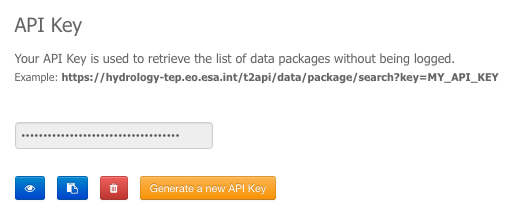
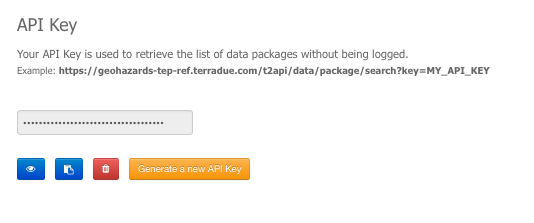
typos

diff --git a/source/community-guide/platform/geobrowser.rst b/source/community-guide/platform/geobrowser.rst
@@ -22,20 +22,30 @@ The map is just a simple map, on which you can zoom in, zoom out and navigate.
 
 Some buttons maybe used to interact with the map:
 
--  |geobrowser_button_search.png| search area
+-  |geobrowser_button_search.png| search text
+-  |geobrowser_button_search_area.png| search area
 -  |geobrowser_button_plus.png| Zoom in
 -  |geobrowser_button_minus.png| Zoom out
 -  |geobrowser_button_query.png| Open query search tab
 -  |geobrowser_button_polygon.png| Edit the search bbox by drawing a polygon on the map
 -  |geobrowser_button_recbox.png| Edit the search bbox by drawing a rectangle on the map
--  |geobrowser_button_dynamicsearch.png| Enable/Disable dynamic search (the search bbox is the current view on the map)
+-  |geobrowser_button_placemark.png| Edit the search bbox by selecting a point as AOI
+-  |geobrowser_button_wkt.png| Allow to enter a WKT or upload a shapefile, a kml or a geojson to be displayed on the map as bounding box
+-  |geobrowser_button_meter.png| Measure an area
 -  |geobrowser_button_fullscreen.png| Put the map in full screen
 -  |geobrowser_button_layers.png| Change the background of the map | Select layers to be displayed.
 
-It is also possible to directly select on the map the temporal parameter of the search by moving the temporal bar.
+Search area
+***********
+From the geobrowser, a search area can be accessed by clicking on the |geobrowser_button_search_area.png| button. This expands a view containing all search parameters associated to the current catalogue on which the search will be performed.
+Some parameters are just free text, others can be chosen from a list, and some parameters can be filled from the geobrowser. This is the case of:
+
+- the temporal parameter which can be filled by moving the temporal bar present on the geobrowser.
 
 .. figure:: ../../includes/geobrowser_timebar.png
 	:figclass: img-border img-max-width
+
+- the geographical area which can be filled either from the bbox drawn on the map using |geobrowser_button_polygon.png|, |geobrowser_button_recbox.png|, |geobrowser_button_placemark.png| or by uploading a shapefile, a kml or geojson file, using the import button |geobrowser_button_wkt.png|.
 
 .. tip:: in the *Search Term* field supported wildcards are '*', which matches any character sequence (including the empty one), and '?', which matches any single character.
 
@@ -64,6 +74,30 @@ Density map layer
 
 Currently disactivated.
 
+Area of interest
+*****************
+
+.. figure:: ../../includes/aoi.png
+	:align: center
+	:figclass: img-container-border
+	:scale: 80%
+
+
+Area of interest may be defined by the user using the tools to draw a polygon or a rectangle on the map (see `Map`_). Once set, the search will be automatically updated with data corresponding to this AOI.
+
+Area of interest external definition
+````````````````````````````````````
+
+Complex Area of interest can be defined by uploading or referencing a vector based file:
+
+- shapefile (limited to 1MB)
+- kml (limited to 1MB)
+
+Area of Interest according to processing service
+````````````````````````````````````````````````
+
+Area of Interest may be directly used to fill bounding box parameters exposed by Processing services.
+For that, you can use the |get_param_from_map_button.png| button, displayed along the parameter input field. Clicking on it will allow directly to fill the input with the value of the current search bounding box.
 
 Contexts
 ~~~~~~~~
@@ -101,6 +135,10 @@ Cloud Processing
 Processing services tab can be expanded by clicking on *Processing Services* on the right of the map.
 It is composed of two sub tabs.
 
+.. figure:: ../../includes/geobrowser_jobs.png
+	:figclass: img-border
+
+
 Processing services tab
 ~~~~~~~~~~~~~~~~~~~~~~~
 
@@ -119,12 +157,16 @@ Details on jobs can be accessed by clicking on the title of the job.
 .. |geobrowser_button_query.png| image:: ../../includes/geobrowser_button_query.png
 .. |geobrowser_button_plus.png| image:: ../../includes/geobrowser_button_plus.png
 .. |geobrowser_button_minus.png| image:: ../../includes/geobrowser_button_minus.png
+.. |geobrowser_button_search_area.png| image:: ../../includes/geobrowser_button_search_area.png
 .. |geobrowser_button_search.png| image:: ../../includes/geobrowser_button_search.png
 .. |geobrowser_button_polygon.png| image:: ../../includes/geobrowser_button_polygon.png
 .. |geobrowser_button_recbox.png| image:: ../../includes/geobrowser_button_recbox.png
-.. |geobrowser_button_dynamicsearch.png| image:: ../../includes/geobrowser_button_dynamicsearch.png
+.. |geobrowser_button_placemark.png| image:: ../../includes/geobrowser_button_placemark.png
+.. |geobrowser_button_meter.png| image:: ../../includes/geobrowser_button_meter.png
+.. |geobrowser_button_wkt.png| image:: ../../includes/geobrowser_button_wkt.png
 .. |geobrowser_button_fullscreen.png| image:: ../../includes/geobrowser_button_fullscreen.png
 .. |geobrowser_button_layers.png| image:: ../../includes/geobrowser_button_layers.png
 .. |geobrowser_disaster_big_group.png| image:: ../../includes/geobrowser_disaster_big_group.png
 .. |geobrowser_disaster_small_group.png| image:: ../../includes/geobrowser_disaster_small_group.png
 .. |geobrowser_disaster_event.png| image:: ../../includes/geobrowser_disaster_event.png
+.. |get_param_from_map_button.png| image:: ../../includes/get_param_from_map_button.png

diff --git a/source/advanced/expert/deploy.rst b/source/advanced/expert/deploy.rst
@@ -1,0 +1,45 @@
+Deploy your processor in the platform
+-------------------------------------
+
+If you completed properly the previous steps and integrated successfully your processor in the `Sandbox <http://docs.terradue.com/developer-sandbox/>`_, you should now have a processor ready to be deployed on the platform.
+
+Ensure the follwoing points are completed to be sure your processor is ready for deployment
+
+- You have performed a successful run of your apllication workflow on your sandbox
+- All your code is properly commited on the develop branch of your github repository (e.g. https://github.com/geohazards-tep/dcs-<your_processor>)
+- The README page of your github repository https://github.com/geohazards-tep/dcs-<your_processor> has the badge ``build passed``
+  
+
+If you can check all the previous items, you can deploy you processor to a production cluster.
+
+
+Locate your community cluster
+^^^^^^^^^^^^^^^^^^^^^^^^^^^^^
+
+A community cluster is a set of nodes provisioned by an ICT provider for the community. Refer to the ICT provider or the community manager of your community to locate the address of the cluster's endpoint for the deployment.
+
+A typical cluster deployment endpoints is like this:
+
+``https://caprera.terradue.com/production/processor/deploy``
+
+You simply open the URL in your web browser
+
+
+Find and deploy your released processor workflows
+^^^^^^^^^^^^^^^^^^^^^^^^^^^^^^^^^^^^^^^^^^^^^^^^^
+
+The previous URL in your web browser shall ask you for a username and API key
+
+.. note:: 
+
+   Your API key is available in your Terradue Cloud Platform profile at https://www.terradue.com/portal/settings/apikey.
+
+Once properly entered with your credentials, you will see on or more workflows listed with their deployment status.
+Simply clicking on them you can deploy or undeploy the workflow on the cluster.
+
+Once a workflow is deployed, you are able to use it directly from the portal in the thematic application called `Test my processor <https://geohazards-tep.eo.esa.int/geobrowser/?id=testproc>`_.
+
+.. figure:: ../../includes/testproc.png
+  :width: 70%
+
+

diff --git a/source/community-guide/user.rst b/source/community-guide/user.rst
@@ -43,8 +43,8 @@ The other icons give the following functionalities:
 
 - |user_signin_balance.png| Your current accounting balance (if greater than 0)
 - |user_signin_settings.png| Access to administration settings (for users with special privileges)
-- |user_signin_contactus.png| Link to contact the Hydrology Tep support team
-- |user_signin_documentation.png| Link to the Hydrology Tep documentation
+- |user_signin_contactus.png| Link to contact the Geohazards Tep support team
+- |user_signin_documentation.png| Link to the Geohazards Tep documentation
 - |user_signin_logout.png| Log out from the portal
 
 .. |user_signin_settings.png| image:: ../includes/user_signin_settings.png
@@ -121,6 +121,10 @@ See your communities
 To find out which communities you belong to, just go to the **Communities** tab on your profile page.
 The communities for which you are a member are listed here, along with your role in it.
 
+.. figure:: ../includes/user_community.png
+	:figclass: img-border
+	:scale: 70%
+
 See your usage
 --------------
 
@@ -139,7 +143,7 @@ You will see:
 - how many data packages and items you loaded
 - how many wps jobs you created and how many failed or succeeded
 
-.. req:: HEP-TS-DES-014
+.. req:: GEP-TS-ICD-010
     :show:
 
     This section shows that the platform has an analytics web widget.

diff --git a/source/community-guide/platform/activities.rst b/source/community-guide/platform/activities.rst
@@ -1,16 +1,15 @@
 Activities area
 ===============
 
-The portal gives the user a quick view of last activities performed by himself or other users that belongs to same groups.
+The portal gives the user a quick view of his activities on the platform:
+
+- how many data collection you loaded
+- how many data packages and items you loaded
+- how many wps jobs you created and how many failed or succeeded
+
 This page is accessible from the home page, by clicking on **Activities**.
-
-The user will see activities amongst:
-
-- job creation
-- data package creation
-- ... (other type of activities will be available soon)
 
 .. figure:: ../../includes/activities.png
 	:figclass: img-border img-max-width
 
-If the user is allowed to, he will be able to access the entity related to the activity by clicking on the name of this entity. A new page will be open on this entity.
+If the user is allowed to, he can also access the activities of other users or communities.

diff --git a/source/community-guide/cloud/s1toolbox.rst b/source/community-guide/cloud/s1toolbox.rst
@@ -4,7 +4,7 @@ SENTINEL-1 Toolbox Installation
 The SENTINEL-1 Toolbox (S1TBX) consists in a collection of processing tools and data product readers & writers, as well as a display & analysis application, providing a support environment for handling the large archive of data from ESA SAR missions, including SENTINEL-1, ERS-1 & 2 and ENVISAT, as well as third party SAR data from ALOS PALSAR, TerraSAR-X, COSMO-SkyMed and RADARSAT-2. The various processing tools can be ran independently from the command-line, and are also integrated within the graphical user interface. The Toolbox includes notably tools for calibration, speckle filtering, coregistration, orthorectification, mosaicking, data conversion, polarimetry and interferometry.
 
 Installation on a GEP CloudToolbox
--------------------------------
+----------------------------------
 
 Prerequisites
 ^^^^^^^^^^^^^

diff --git a/source/advanced/expert/github.rst b/source/advanced/expert/github.rst
@@ -4,9 +4,9 @@ Request your code repository
 Your integrated processor code will live in a GitHub repository. GitHub is a web-based hosting service for software development projects that use the Git revision control system. The platform offers you both private repositories for limited access projects, and public repositories for open source projects.
 
 Geohazards TEP and the GitHub organization
-+++++++++++++++++++++++++++++++++++++++++
+++++++++++++++++++++++++++++++++++++++++++
 
-The Geohazards TEP has a one-to-one relationship with the corresponding Geohazards TEP GitHub organization https://github.com/hydrology-tep/.
+The Geohazards TEP has a one-to-one relationship with the corresponding Geohazards TEP GitHub organization https://github.com/geohazards-tep/.
 
 Organizing the GitHub repository
 ++++++++++++++++++++++++++++++++

diff --git a/source/community-guide/data.rst b/source/community-guide/data.rst
@@ -151,7 +151,7 @@ Use data in a process
 3. Select one or more entries either from the **Results Table** or from the **Features Basket**. 
 4. Drag the data and drop it over the selected parameter.
 5. In case of several items, it creates one occurence of the parameter per item.
-6. Data are ready to be used in the process. Click on **Run process* to actually run the process.
+6. Data are ready to be used in the process. Click on **Run process** to actually run the process.
 
 Download data
 -------------

diff --git a/source/community-guide/community.rst b/source/community-guide/community.rst
@@ -6,7 +6,7 @@ Communities
 Joining a community
 -------------------
 
-To join a HEP community, go to the `community discovery page <https://hydrology-tep.eo.esa.int/#!communities>`_.
+To join a GEP community, go to the `community discovery page <https://geohazards-tep.eo.esa.int/#!communities>`_.
 
 .. figure:: ../includes/communities.png
 	:align: center

diff --git a/source/community-guide/cloud/github.rst b/source/community-guide/cloud/github.rst
@@ -52,8 +52,7 @@ The repository should follow the structure below:
       /...
       /doc # use this folder to document the application 
       
-.. seealso::
-  
+ 
 Have a look at the application tutorials which implements the recommended structure: 
     
     * MERIS Algal bloom detection https://github.com/Terradue/dcs-beam-algalbloom

diff --git a/source/apps/workspace.rst b/source/apps/workspace.rst
@@ -20,7 +20,7 @@ For each item, the user can:
 - share it with other users or groups (see :doc:`../community_guide/sharing`)
 - transfer the ownership to another user
 
-.. req:: HEP-TS-ICD-015
+.. req:: GEP-TS-ICD-015
 	:show:
 
 	This section describes how the user can share series, data package, services and jobs.

diff --git a/source/admin-guide/index.rst b/source/admin-guide/index.rst
@@ -10,7 +10,7 @@ Contents:
    Data Collection management<data>
    Wps Providers management<wps_provider>
    Wps Services management<wps_service>
-   Wps Jobs management<wps_job>
+   Wps Jobs management<wpsjob>
    Data Packages management<data_package>
    Groups management<group>
    Users management<user>

diff --git a/source/advanced/expert/sandbox.rst b/source/advanced/expert/sandbox.rst
@@ -21,6 +21,8 @@ To create your own Developer Cloud Toolbox:
 - Type the Developer Cloud Sandbox name
 - Select the **Developer Cloud Sandbox** template
 
+.. |plus.png| image:: assets/plus.png
+
 .. figure:: assets/sandbox_create.png
 	:figclass: align-center
         :width: 600px
